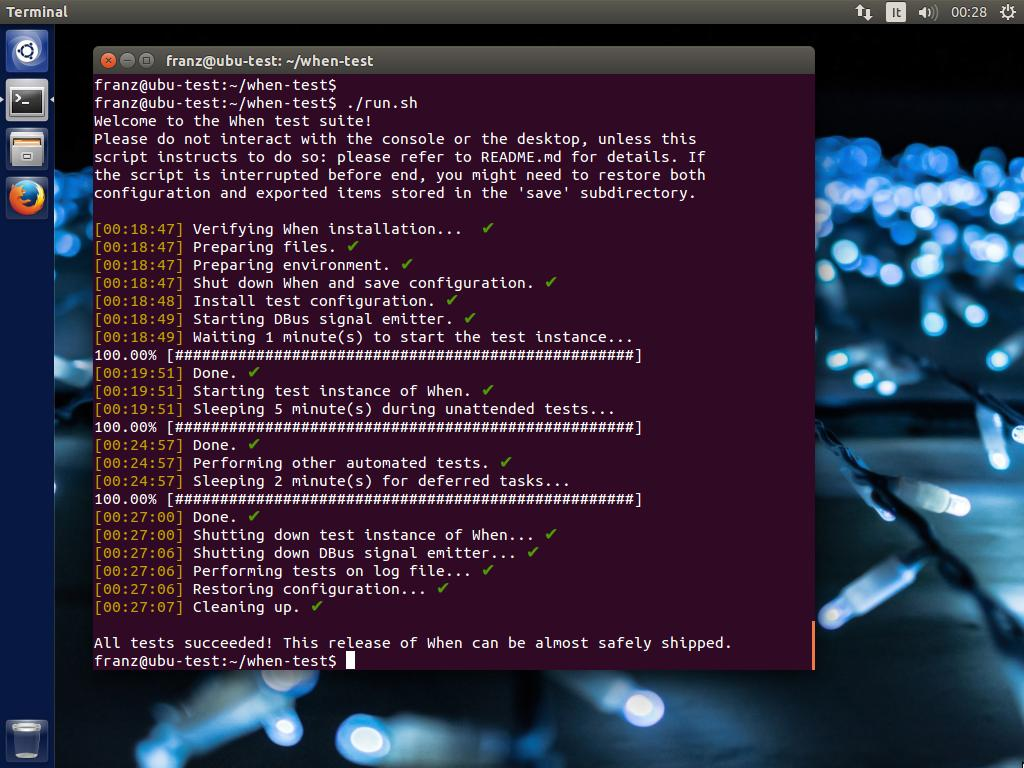
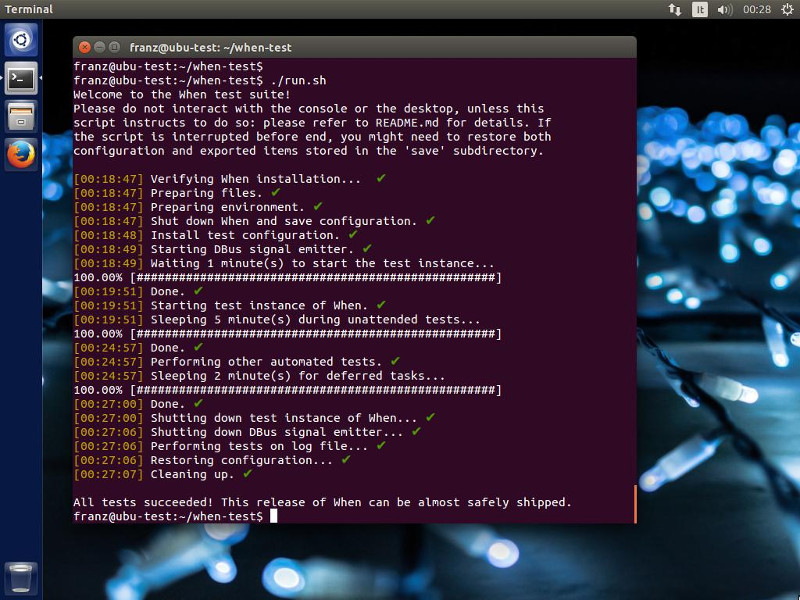
Resize screenshot and add to README.md

diff --git a/README.md b/README.md
@@ -4,6 +4,8 @@ This is a test suite for the **When** scheduler. Since **When** is an interactiv
 
 *Note:* For the moment this test suite is not much more than a proof-of-concept: of course tests are incomplete, but this set of scripts and templates should provide a skeleton to add checks for specific features. Now the suite shows especially its structure, but its components can be amended to improve both readability and effectiveness.
 
+![Screenshot](https://raw.githubusercontent.com/almostearthling/when-command-testsuite/master/images/when-command-testsuite.jpg)
+
 
 ## Testing Process
 
